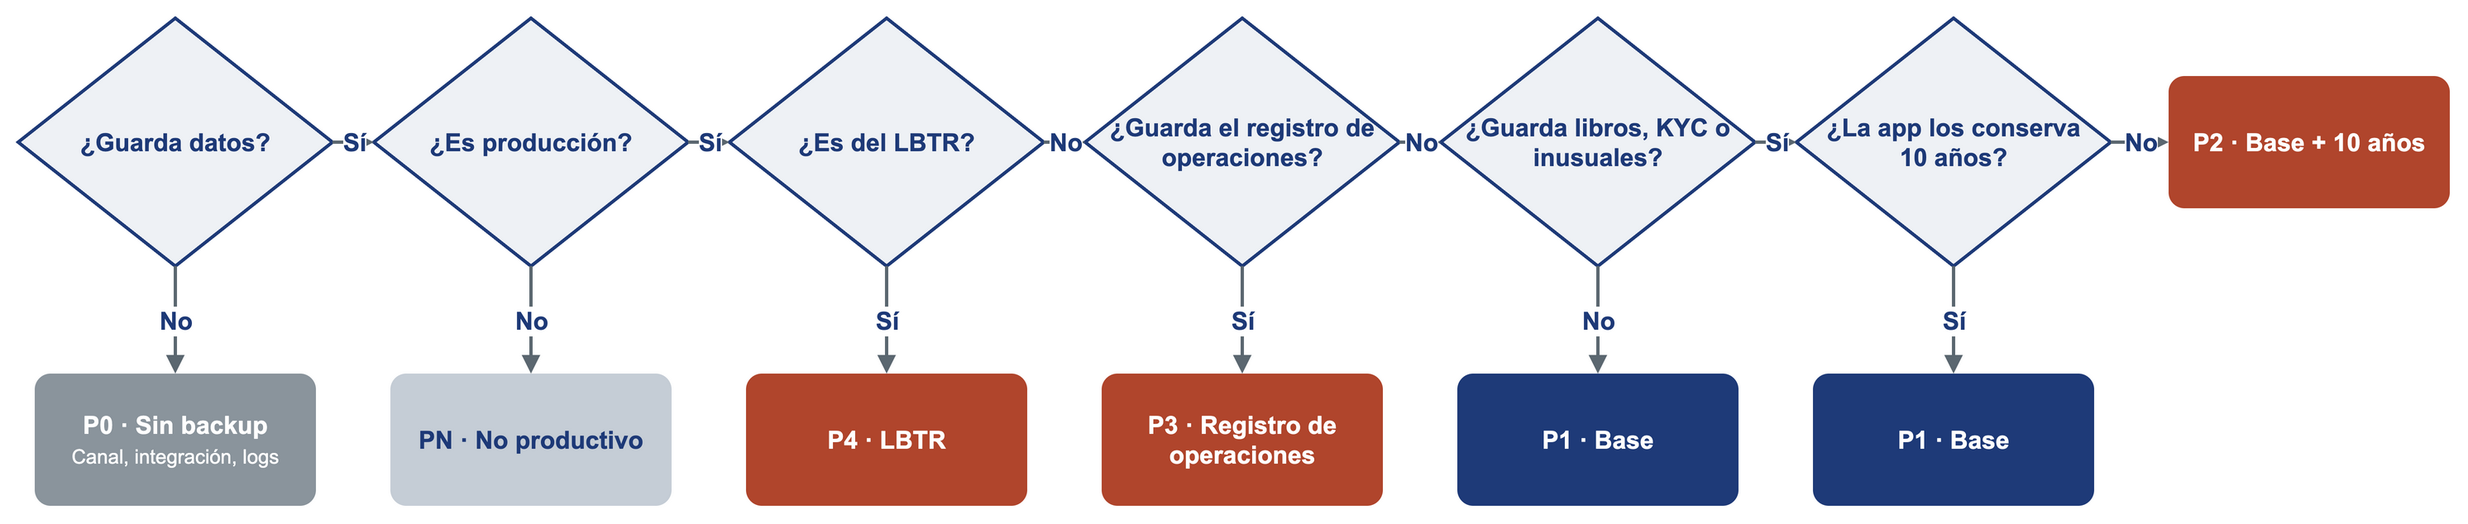
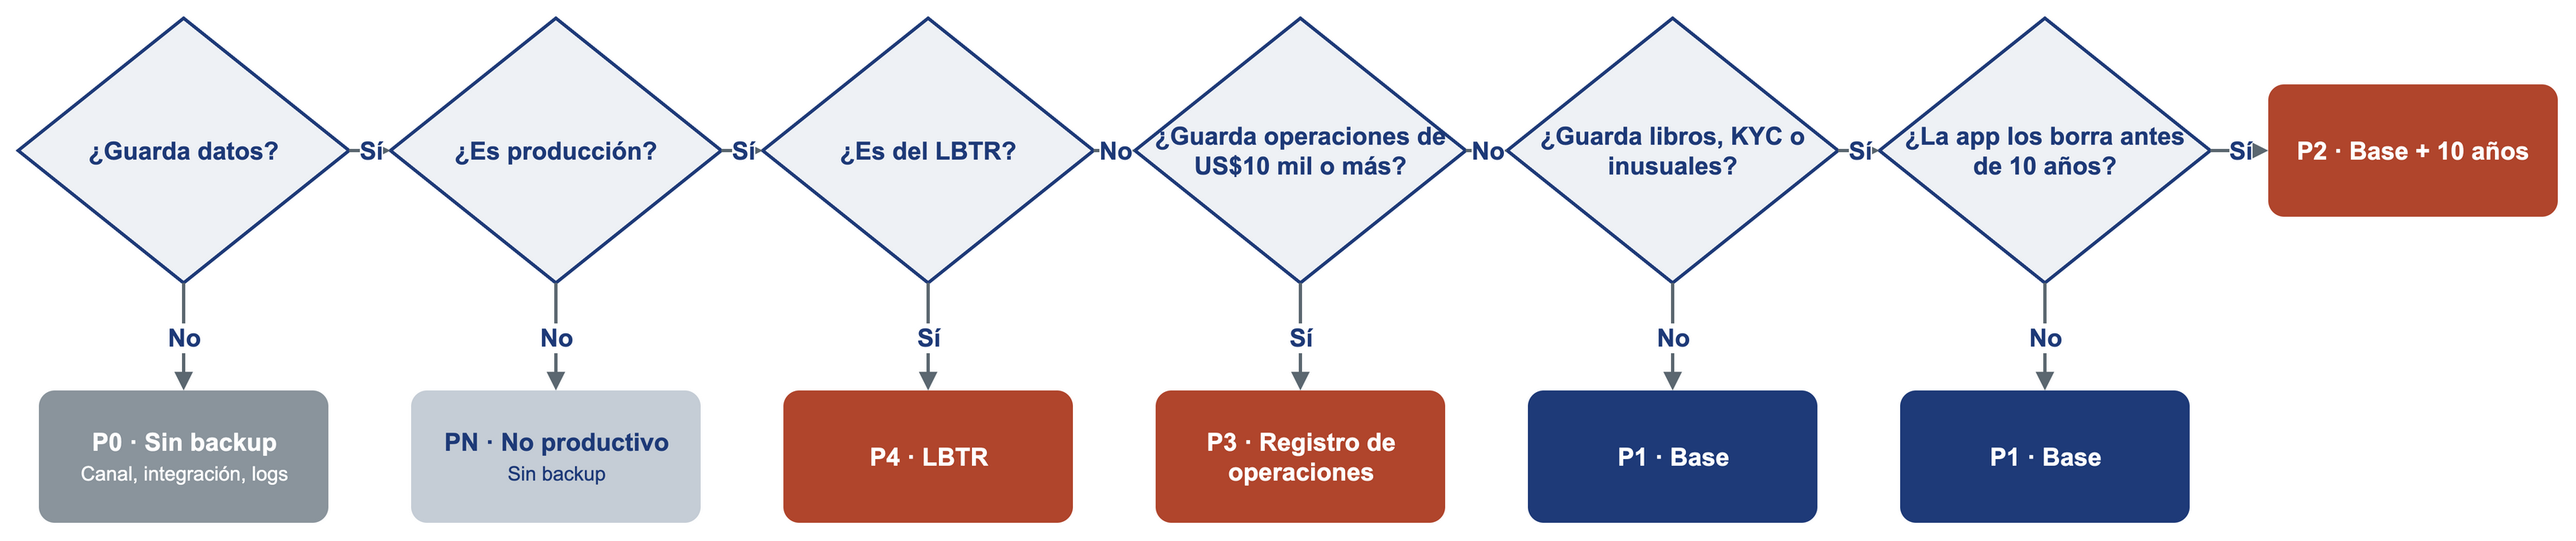
Clarify the decision tree, add a glossary, no backup outside production and one cost column

diff --git a/backup/src/bu_guidelines_deck.py b/backup/src/bu_guidelines_deck.py
@@ -46,6 +46,9 @@ GB_PER_TB = 1024
 
 # Vendor tariffs in US$ per TB-month, as quoted. The unit (protected or stored TB) is still to be confirmed.
 VENDORS = [("D3", 56.01, 7.92), ("Opción 1", 49.90, 12.84)]
+# Redundancy the deck prices: short term in ZRS (three zones), long term in LRS so VM copies can go to Archive
+# (Archive does not exist on ZRS vaults). To be confirmed with the boss; the calculator offers LRS, ZRS and GRS.
+SHORT_REDUNDANCY, LONG_REDUNDANCY = "zrs", "lrs"
 # The bank's discount on Azure list prices, applied to every Azure price on slide 4 (vendors quote net prices).
 DISCOUNT = 0.30
 
@@ -369,7 +372,7 @@ def slide_guidelines(deck):
 
     # Left: the rule every production system follows, whatever the platform.
     left, width = Inches(0.35), Inches(4.75)
-    section_bar(slide, left, Inches(1.08), width, "Lineamiento base: todo PROD", NAVY)
+    section_bar(slide, left, Inches(1.08), width, "Lineamiento base: solo producción", NAVY)
     rows = [
         ["Bases de datos\n(cualquier motor)", "Volver a cualquier\nmomento de los\núltimos 7 días",
          "4 semanales\n12 mensuales"],
@@ -388,8 +391,10 @@ def slide_guidelines(deck):
          ("copias completas guardadas meses o años. Cubren la conservación que pide la norma y los errores "
           "que se detectan tarde.", False, GREY)],
         [("", False, GREY)],
-        [("Aplica igual en nube y on-premise. ", True, NAVY),
-         ("La lámina 3 muestra cómo se configura en Azure.", False, GREY)]], size=9.5)
+        [("", False, GREY)],
+        [("Desarrollo y certificación: ", True, NAVY),
+         ("no se habilita backup. Aplica igual en nube y on-premise; la lámina 3 muestra Azure.", False, GREY)]],
+             size=9.5)
 
     divider(slide, Inches(5.3), Inches(1.08), Inches(5.85))
 
@@ -449,10 +454,12 @@ TREE_PNG = os.path.join(TOPIC_DIR, "docs", "diagrams", "backup-decision-tree.png
 # slide 1; the tree itself lives in docs/diagrams/backup-decision-tree.drawio and is exported to PNG.
 PLANS = [
     ("P0", "Sin backup", "–", "–", "No guarda datos: se reinstala. Los logs tienen su propio plazo", GREY),
-    ("PN", "No productivo", "7 días", "–", "–", SOFT),
+    ("PN", "No productivo (DESA, CERT)", "–", "–",
+     "No se habilita backup; queda solo el que el servicio trae y no se puede apagar (PITR de SQL, mínimo 1 día)",
+     SOFT),
     ("P1", "Base", "7 días", "4 semanales + 12 mensuales", "–", NAVY),
     ("P2", "Base + 10 años", "7 días", "Base + 1 anual por 10 años",
-     "Solo si la aplicación borra libros, KYC u operaciones inusuales antes de 10 años", RUST),
+     "La ley pide conservar libros, KYC e inusuales 10 años; aplica si la aplicación los borra antes", RUST),
     ("P3", "Registro de operaciones", "7 días", "Base + 1 por trimestre por 5 años (20 copias)",
      "Copia inmutable. Si la aplicación borra el dato antes de 10 años: + 1 anual por 10 años", RUST),
     ("P4", "LBTR", "7 días", "Base + 1 anual por 10 años", "Prueba de restauración 1 vez al año, documentada", RUST),
@@ -472,11 +479,19 @@ def slide_layers(deck):
         rows.append([(code, {"fill": fill, "color": text, "bold": True}), (name, {"bold": True, "color": NAVY}),
                      short, long_term, (also, {"left": True, "size": 8.5})])
     grid = table(slide, Inches(0.35), top, width, ["Código", "Plan", "Corto plazo", "Largo plazo", "Además"], rows,
-                 [0.07, 0.17, 0.1, 0.28, 0.38], row_height=0.36, size=9)
-    grid.rows[0].height = Inches(0.3)
-    text_box(slide, Inches(0.35), Inches(6.72), width, Inches(0.3), [[
-        ("Si aplica más de una respuesta, se toma el plan más alto (P4 > P3 > P2 > P1). ", True, NAVY),
-        ("El dato regulado suele estar en las bases de BS, Core o mainframe.", False, GREY)]], size=9)
+                 [0.07, 0.17, 0.1, 0.28, 0.38], row_height=0.31, size=8.5)
+    grid.rows[0].height = Inches(0.28)
+    text_box(slide, Inches(0.35), Inches(6.08), width, Inches(0.95), [
+        [("Si aplica más de una respuesta, se toma el plan más alto (P4 > P3 > P2 > P1). ", True, NAVY),
+         ("El dato regulado suele estar en las bases de BS, Core o mainframe.", False, GREY)],
+        [("LBTR: ", True, NAVY),
+         ("sistema de pagos interbancarios de alto valor del BCRP (Liquidación Bruta en Tiempo Real). ", False, GREY),
+         ("Registro de operaciones: ", True, NAVY),
+         ("el que pide la SBS para operaciones de US$10 mil o más, o varias que suman US$50 mil al mes. ", False,
+          GREY)],
+        [("KYC: ", True, NAVY), ("datos para conocer al cliente (identificación, actividad). ", False, GREY),
+         ("Operaciones inusuales: ", True, NAVY),
+         ("las que se revisan y reportan por lavado de activos.", False, GREY)]], size=8.5)
     slide.notes_slide.notes_text_frame.text = (
         "El árbol se recorre por aplicación y da un código de plan. Primero: si la aplicación no guarda datos propios "
         "(canal e integración solo pasan la operación; las plataformas de seguridad guardan logs), no lleva backup: "
@@ -550,8 +565,8 @@ def slide_azure(deck):
 
     note_box(slide, Inches(0.35), Inches(6.12), Inches(12.63), Inches(0.82), [
         [("Redundancia del backup: ", True, NAVY),
-         ("PROD: ZRS (copias en 3 zonas de la región). No productivo: LRS. Archive solo existe en bóvedas LRS.",
-          False, GREY)],
+         ("corto plazo en ZRS (copias en 3 zonas de la región); largo plazo en LRS, que permite pasar las copias de "
+          "VM a Archive. A confirmar.", False, GREY)],
         [("Tiempos: ", True, NAVY),
          ("SQL restaura normalmente en < 12 h; Cosmos DB, 30 a 90 min por TB; Archive tarda hasta 15 h en "
           "rehidratar, dentro de las 48 h hábiles que da la SBS.", False, GREY)]], size=9.5)
@@ -576,40 +591,31 @@ def slide_prices(deck, tb, retrieved, discount):
     transfer = f"~{GB_PER_TB * 8 / 3600:.1f} h/TB a 1 Gbps".replace(".", ",")
     vault_hours = f"~{GB_PER_TB * 1024 / 30 / 3600:.0f} h/TB"
 
-    def priced(label, keys, rpo, rto, extra, best=False):
-        """keys = meter keys for LRS and ZRS; None when the option doesn't exist."""
+    def priced(label, key, rpo, rto, extra, best=False):
         options = {"color": GREEN, "bold": True} if best else {}
-        cells = []
-        for key in keys:
-            if key is None:
-                cells.append(("–", {}))
-            else:
-                cells.append((amount(prices[key]), options))
-        return [label, *cells, (rpo, {"size": 8}), (rto, small), (extra, small)]
+        return [label, (amount(prices[key]), options), (rpo, {"size": 8}), (rto, small), (extra, small)]
 
     def vendor(name, value, tier, rto):
-        return [(f"{name} · {tier}", {"color": RUST}),
-                (f"{amount(value)}  (según su servicio)", {"color": RUST, "bold": True, "span": 2}),
+        return [(f"{name} · {tier}", {"color": RUST}), (amount(value), {"color": RUST, "bold": True}),
                 ("Según su política", {"size": 8}), (rto, small), ("Confirmar TB protegido o almacenado", small)]
 
-    sql_label = "SQL Database"
+    short, long_term = SHORT_REDUNDANCY, LONG_REDUNDANCY
     rows = [
         ["Corto plazo: recuperación operativa"],
-        priced("Azure Backup · VM (bóveda)", ("vault_lrs", "vault_zrs"),
-               "24 h (4 h Enhanced)", f"Snapshot: más rápido; bóveda: {vault_hours}",
-               f"+ {usd(prices['vm_instance'])}/TB protegido"),
-        priced(f"{sql_label} · PITR", ("sqldb_pitr_lrs", "sqldb_pitr_zrs"),
-               "5 a 10 min", "Normalmente < 12 h", "Gratis hasta el tamaño de la base"),
-        ["Cosmos DB · continuo 7 días", ("Sin costo", {"span": 2, "color": GREEN, "bold": True}),
+        priced("Azure Backup · VM (bóveda)", f"vault_{short}", "24 h (4 h Enhanced)",
+               f"Snapshot: más rápido; bóveda: {vault_hours}", f"+ {usd(prices['vm_instance'])}/TB protegido"),
+        priced("SQL Database · PITR", f"sqldb_pitr_{short}", "5 a 10 min", "Normalmente < 12 h",
+               "Gratis hasta el tamaño de la base"),
+        ["Cosmos DB · continuo 7 días", ("Sin costo", {"color": GREEN, "bold": True}),
          ("~100 s", {"size": 8}), ("~30 a 90 min por TB", small), ("Solo se cobra restaurar", small)],
         *[vendor(name, active, "Active", f"Restaurar + traer: {transfer}") for name, active, _ in VENDORS],
         ["Largo plazo: retención"],
-        priced("Azure Backup · Archive (VM)", ("archive_lrs", None), "1 mes",
+        priced("Azure Backup · Archive (VM)", f"archive_{long_term}", "1 mes",
                f"Rehidratar ≤ 15 h + {vault_hours}", "Puntos > 6 meses; mínimo 180 días", best=True),
-        priced(f"{sql_label} · LTR", ("sqldb_ltr_lrs", "sqldb_ltr_zrs"),
-               "1 semana", "Normalmente < 12 h", "Solo backups completos"),
-        priced("Cosmos DB · Backup vault", ("vault_lrs", "vault_zrs"),
-               "1 día", "~30 a 90 min por TB", f"+ {usd(prices['cosmos_instance'])}/TB protegido"),
+        priced("SQL Database · LTR", f"sqldb_ltr_{long_term}", "1 semana", "Normalmente < 12 h",
+               "Solo backups completos"),
+        priced("Cosmos DB · Backup vault", f"vault_{long_term}", "1 día", "~30 a 90 min por TB",
+               f"+ {usd(prices['cosmos_instance'])}/TB protegido"),
         *[vendor(name, archive, "Archive", f"Su Archive + {transfer}") for name, _, archive in VENDORS],
     ]
 
@@ -618,27 +624,27 @@ def slide_prices(deck, tb, retrieved, discount):
                        f"{discount:.0%} de descuento del banco; 1 TB = 1.024 GB. Proveedores: tarifas cotizadas.")
     text_box(slide, Inches(0.35), Inches(1.0), Inches(12.63), Inches(0.28), [[
         ("Unidad: US$ por TB almacenado al mes", True, NAVY),
-        (f", Central US, Azure con {discount:.0%} de descuento. – = el servicio no ofrece esa redundancia.",
-         False, GREY)]], size=9)
+        (f", Central US, Azure con {discount:.0%} de descuento. Corto plazo en {short.upper()} (3 zonas de la "
+         f"región); largo plazo en {long_term.upper()}, que permite Archive.", False, GREY)]], size=9)
     grid = table(slide, Inches(0.35), Inches(1.3), Inches(12.63),
-                 ["Opción", "LRS", "ZRS", "RPO", "RTO aprox. (restaurar)", "Qué más se cobra"], rows,
-                 [0.25, 0.08, 0.08, 0.11, 0.2, 0.28], row_height=0.28, size=8.5)
+                 ["Opción", "Costo", "RPO", "RTO aprox. (restaurar)", "Qué más se cobra"], rows,
+                 [0.27, 0.12, 0.12, 0.21, 0.28], row_height=0.28, size=8.5)
     grid.rows[0].height = Inches(0.36)
     for r, values in enumerate(rows, start=1):
         if len(values) == 1:
             grid.rows[r].height = Inches(0.26)
 
-    vault_protected = prices["vault_zrs"] + prices["vm_instance"]
+    vault_protected = prices[f"vault_{short}"] + prices["vm_instance"]
     actives = [active for _, active, _ in VENDORS]
     archives = [archive for _, _, archive in VENDORS]
     takeaways = [
         ("Largo plazo", f"Archive LRS de Azure: {usd(prices['archive_lrs'])} por TB, "
                         f"{'más barato' if prices['archive_lrs'] < min(archives) else 'frente a'} que el Archive de "
                         f"los proveedores ({' y '.join(amount(value) for value in archives)})."),
-        ("PITR vs LTR", f"En SQL, el PITR ZRS cuesta {prices['sqldb_pitr_zrs'] / prices['sqldb_ltr_zrs']:.0f} veces "
-                        f"el LTR ZRS por TB ({amount(prices['sqldb_pitr_zrs'])} vs "
-                        f"{amount(prices['sqldb_ltr_zrs'])}): PITR corto y LTR para retener."),
-        ("Corto plazo", f"Bóveda ZRS + instancia VM = {usd(vault_protected)} por TB protegido, "
+        ("PITR vs LTR", f"En SQL, el PITR cuesta {prices[f'sqldb_pitr_{short}'] / prices[f'sqldb_ltr_{long_term}']:.0f} "
+                        f"veces el LTR por TB ({amount(prices[f'sqldb_pitr_{short}'])} vs "
+                        f"{amount(prices[f'sqldb_ltr_{long_term}'])}): PITR corto y LTR para retener."),
+        ("Corto plazo", f"Bóveda {short.upper()} + instancia VM = {usd(vault_protected)} por TB protegido, "
                         f"{'más barato' if vault_protected < min(actives) else 'frente a'} que los proveedores "
                         f"({amount(min(actives))}–{amount(max(actives))}), que además suman la transferencia "
                         f"({transfer})."),
@@ -654,7 +660,7 @@ def slide_prices(deck, tb, retrieved, discount):
         "lo mismo en bóvedas y entre 14% y 23% menos en bases de datos. "
         "Cada precio por GB-mes se multiplica por 1.024. Las instancias protegidas se cobran por bloque de datos de "
         "origen: VM US$10 por 500 GB, Cosmos DB US$25 por 500 GB (precio de lista). "
-        "Redundancia: solo LRS y ZRS, las que usa el banco. Cosmos DB continuo 7 días no cobra almacenamiento de "
+        "Redundancia: corto plazo en ZRS (3 zonas), largo plazo en LRS para poder usar Archive; GRS duplica el costo y se ve en la calculadora. Cosmos DB continuo 7 días no cobra almacenamiento de "
         "backup, solo cada restauración. Archive no admite bóvedas ZRS. "
         "El PITR de SQL solo cobra lo que excede el almacenamiento gratis (el tamaño de la base). "
         "Azure Backup guarda incrementales: los TB almacenados son menos que los TB protegidos. "
